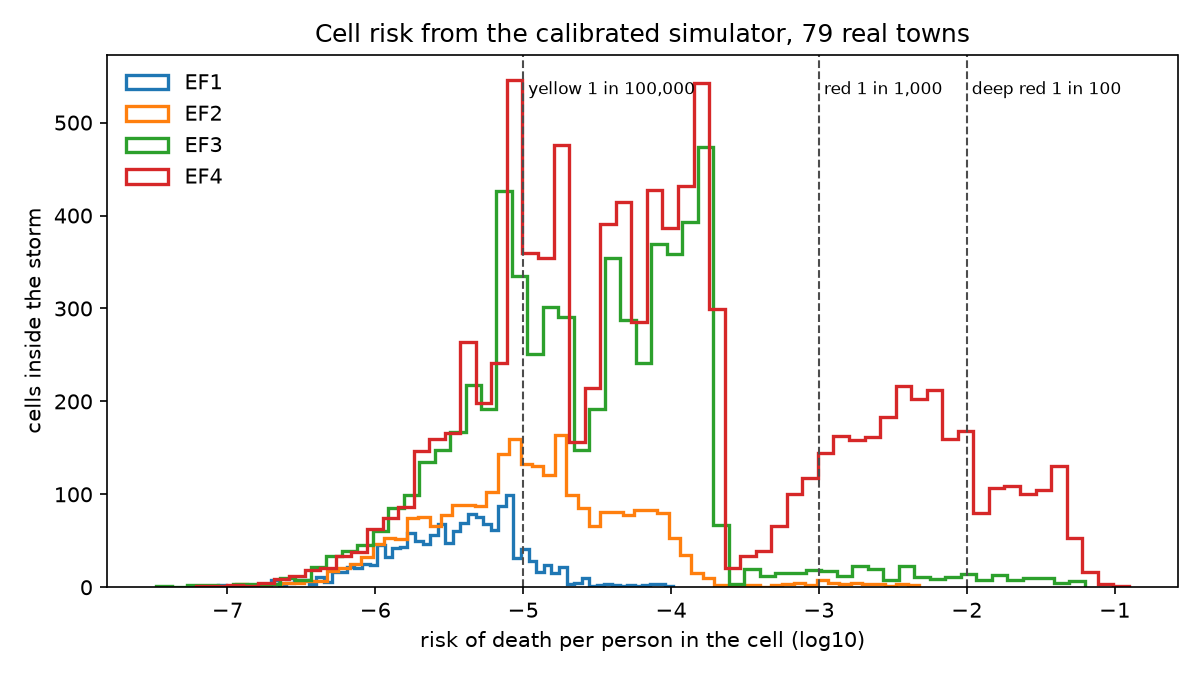
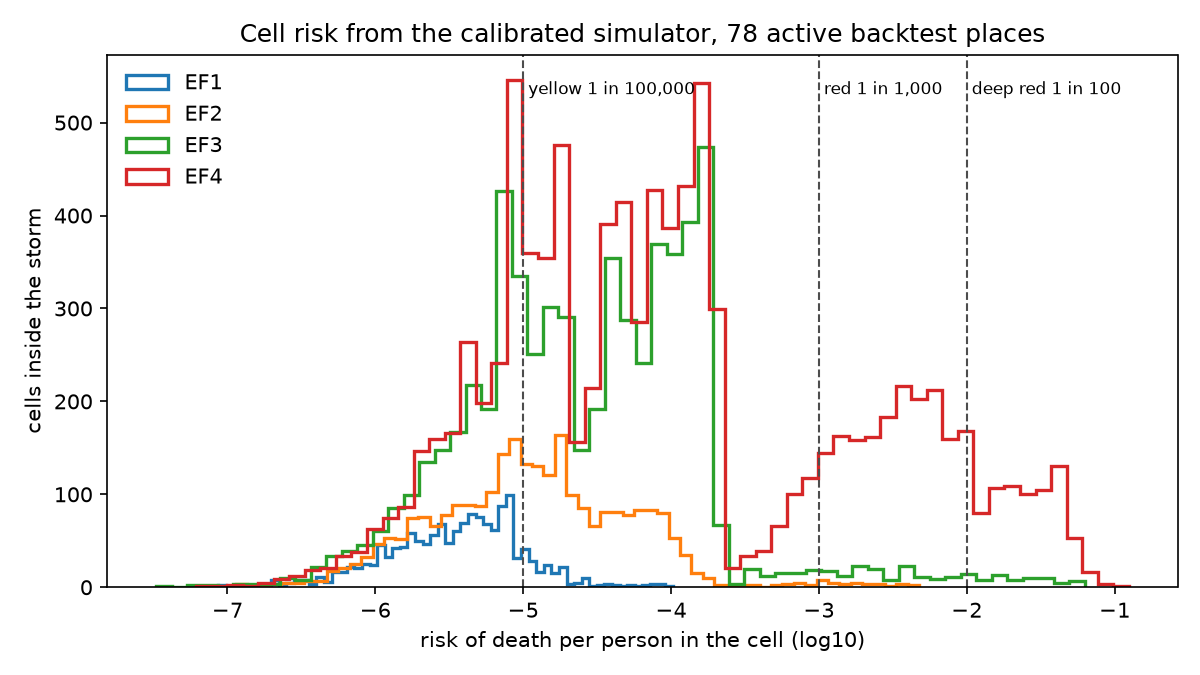
add flood and vehicle params, integration check, tighten methods wording

Changed region(s): [[0.185, 0.0311, 0.8633, 0.0622]]

diff --git a/ml/story_exports.py b/ml/story_exports.py
@@ -145,15 +145,15 @@ Everything regenerates from `ml/story_exports.py`, so if a number changes it cha
 ## Headline numbers (safe to quote)
 
 - Mobile homes: **{t['shares']['MH']:.0%} of tornado deaths** where the location is known, rising to **{t['shares_night']['MH']:.0%} at night**.
-- Vehicles: **{ff['shares']['VEHICLE']:.0%} of flash flood deaths**; another {ff['shares']['WATER']:.0%} were in the water.
+- Vehicles: **{ff['shares']['VEHICLE']:.0%} of flash flood deaths with known locations**; another {ff['shares']['WATER']:.0%} were in the water.
 - Night tornadoes (8 PM to 6 AM) are {tn['share_of_tornadoes']:.0%} of tornadoes but **{tn['share_of_deaths']:.0%} of tornado deaths**
   ({tn['deaths_per_100_tornadoes_night']:.1f} vs {tn['deaths_per_100_tornadoes_day']:.1f} deaths per 100 tornadoes).
 - The national model ranks storms well: on 2020-2025 storms it never saw, AUC **{ts['auc_fatal']:.2f}**
   (tornadoes {ts['by_event_type']['Tornado']['auc_fatal']:.2f}, flash floods {ts['by_event_type']['Flash Flood']['auc_fatal']:.2f}).
-- Backtest on {len(b['storms'])} real tornadoes the simulator was never tuned on: the largest, {big['state'].title()} {big['year']}
+- Backtest on {len(b['storms'])} tornadoes held out from parameter fitting (see the experiment disclosure in METHODS.md): the largest, {big['state'].title()} {big['year']}
   (EF{big['ef']}, {big['recorded']} deaths), simulated at **{big['calibrated']['expected']:.1f} (range {big['calibrated']['p05']:.0f}-{big['calibrated']['p95']:.0f})**.
   Across all {len(b['storms'])}, the simulator predicts {bs['calibrated']['predicted_deaths']:.0f} deaths vs {bs['calibrated']['recorded_deaths']} recorded
-  in buildings, with rank correlation {bs['calibrated']['spearman']:.2f}.
+  in the comparison target, with rank correlation {bs['calibrated']['spearman']:.2f}.
 
 ## Files and suggested charts
 
@@ -164,7 +164,7 @@ Everything regenerates from `ml/story_exports.py`, so if a number changes it cha
 | deaths_by_hour.csv | Radial or column chart by hour; use *_per_100_storms to show night danger |
 | deaths_by_month.csv | Seasonality |
 | deaths_by_location.csv | Stacked bar or waffle: where people die, tornado day vs night vs flash flood |
-| fatalities_dots.csv (in ml/exports/) | One dot per death (23,187 rows): year, type, location class, age band, sex |
+| fatalities_dots.csv (in ml/exports/) | Direct AND indirect deaths (23,187 rows); filter fatality_type to D for comparison with direct-death charts |
 | model_drivers.csv | Bar chart: what the model says drives deaths |
 | model_effect_hour.csv / _ef_rating.csv / _mobile_home_share.csv | Line charts; relative_risk 1.3 = 30% more expected deaths than an average storm |
 | model_validation.csv | Table: how well the model does on states and years it never saw |
@@ -186,11 +186,17 @@ Everything regenerates from `ml/story_exports.py`, so if a number changes it cha
 - Location shares leave out deaths NOAA recorded as "Unknown" (about 16% overall, 6% for tornadoes).
 - Connecticut is blank on the county map (its counties were redrawn in 2022). Territories are not included.
 - County map values come from a model that never saw that county's state, so past disasters are not memorized.
-- The backtest simulator only models people inside buildings. Deaths in cars or outdoors are shown in
-  recorded_deaths but not in recorded_in_buildings. It also draws each storm as straight lines between NOAA's
-  begin/end points, so it misses deaths when the real path curved into a neighborhood; that is why it
-  under-predicts in total. The national model is better at totals; the simulator shows *where* inside a town.
-- Buildings and populations are from a 2025 inventory, so older storms are replayed on today's town.
+- The backtest target (legacy recorded_in_buildings field) excludes known VEHICLE, OUTDOOR, WATER and OTHER
+  locations but retains unknown locations. It is not confirmed building deaths. The national model predicts
+  all direct deaths, so its comparison against this reduced target is not target-matched.
+- NOAA endpoint geometry, inventory gaps and simplified lethality may contribute to underprediction;
+  the backtest does not isolate the cause or establish spatial accuracy. Drawing a path does not validate death estimates.
+- Sampling ranges condition on fixed inputs and omit parameter, exposure and geometry uncertainty.
+- Buildings and modeled populations are contemporary NSI records retrieved in 2026; older storms replay
+  on contemporary exposure, not reconstructed historical towns.
+- The game models buildings and crossing vehicles; its breakdown excludes WATER and OUTDOOR exposures
+  and differs from the national location chart. A town's vehicle share need not equal the national 45%.
+- Flood/vehicle parameters are uncalibrated. Missing HAND or traffic is unavailable data, not verified safety.
 - Night in all charts = 8 PM to 5:59 AM local clock time.
 """
     (OUT / "README.md").write_text(text)

diff --git a/ml/heatmap_bands.py b/ml/heatmap_bands.py
@@ -15,7 +15,8 @@ and red covers under 10% of storm cells, so the red bands lose meaning. Moving e
 decade (still log scale) gives EF1 mostly green, EF2 mostly yellow, EF3 some red, EF4 about a quarter
 red or deep red. See CANDIDATES and heatmap_bands.json.
 
-Writes sim/params/sim_params.json = ml/work/calibrated_params.json + the chosen risk_bands.
+Writes calibrated tornado params + the chosen risk_bands, preserving published flood/vehicle
+blocks when the calibration cache predates flood support.
 Output: ml/exports/heatmap_bands.json, ml/figures/cell_risk_distribution.png
 """
 import json
@@ -124,9 +125,20 @@ def verify_against_cli(storms, P, widths):
     return max(rel)
 
 
-def main():
+def final_params():
+    """Older tornado-only calibration caches must not remove flood support."""
     P = json.loads(CALIBRATED.read_text())
+    if PARAMS.exists():
+        published = json.loads(PARAMS.read_text())
+        for key in ("flood", "vehicle"):
+            if key not in P and key in published:
+                P[key] = published[key]
     P["risk_bands"] = CANDIDATES[CHOSEN]
+    return P
+
+
+def main():
+    P = final_params()
     PARAMS.write_text(json.dumps(P, indent=2) + "\n")  # lethality is unchanged by bands; the CLI check below reads this file
     bands, min_people = P["risk_bands"], P["min_cell_people"]
     widths = {int(k[2:]): v["width_m"]["median"] for k, v in json.loads((EXPORTS / "tornado_width_by_ef.json").read_text())["by_ef"].items()}
@@ -185,7 +197,7 @@ def main():
         ax.text(np.log10(v), ax.get_ylim()[1] * 0.95, f" {k.replace('_', ' ')} 1 in {1 / v:,.0f}", fontsize=8, va="top")
     ax.set_xlabel("risk of death per person in the cell (log10)")
     ax.set_ylabel("cells inside the storm")
-    ax.set_title("Cell risk from the calibrated simulator, 79 real towns")
+    ax.set_title(f"Cell risk from the calibrated simulator, {len(storms)} active backtest places")
     ax.legend(frameon=False)
     fig.tight_layout()
     fig.savefig(FIGURES / "cell_risk_distribution.png", dpi=150)
@@ -201,9 +213,10 @@ def main():
     print(f"  wrote sim/params/sim_params.json with risk_bands = {CHOSEN} {bands}")
 
     write_json(EXPORTS / "heatmap_bands.json", {
-        "note": ("Share of populated H3 cells in each band when the calibrated sim runs EF1-EF4 tornadoes through the 79 "
-                 "backtest towns. share_of_touched_cells counts only cells with nonzero expected deaths. Interim: "
-                 "confirm on the three featured places before freezing."),
+        "note": (f"Share of populated H3 cells in each band when the calibrated sim runs EF1-EF4 tornadoes through {len(storms)} "
+                 "active backtest places. share_of_touched_cells counts only cells with nonzero expected deaths. "
+                 "Presentation cutoffs are fixed across places; they are not validated mortality or damage thresholds."),
+        "active_places": len(storms),
         "chosen": CHOSEN, "bands": bands, "min_cell_people": min_people, "python_vs_cli_max_rel_diff": max_diff,
         "by_storm": table, "candidates": candidates,
     })

diff --git a/ml/calibrate.py b/ml/calibrate.py
@@ -11,8 +11,8 @@ non-fatal storms far faster than it explains fatal ones, so it stayed at 1 and w
 Fixed: VEHICLE (no crossings in tornado places), over65, warning_per_min (every storm uses the
 same placeholder warning time, so it cannot be fit).
 
-Target: deaths_sim_target = recorded deaths minus deaths NOAA places outside buildings (vehicles,
-outdoors), since the tornado sim only models people in buildings.
+Target: deaths_sim_target = recorded direct deaths minus known VEHICLE, OUTDOOR, WATER and OTHER
+locations. Unknown locations remain, so the target is not confirmed building deaths.
 
 Objective on the train storms (each weighted by its sampling weight):
   mean weighted Poisson deviance(target, sim expected deaths + FLOOR)
@@ -37,7 +37,7 @@ from common import EXPORTS, PROCESSED, ROOT, WORK, write_json
 
 TORNADOES = ROOT / "ml" / "backtest" / "tornadoes.json"
 PLACES = ROOT / "data" / "backtest" / "places"
-# env overrides are only for testing the loop against a mock CLI
+# Overrides also support the real engine/defaults in a teammate's checkout.
 SIM_CLI = os.environ.get("REFUGE_SIM_CLI", str(ROOT / "sim" / "dist" / "cli.js"))
 DEFAULT_PARAMS = Path(os.environ.get("REFUGE_DEFAULT_PARAMS", ROOT / "sim" / "params" / "sim_params.default.json"))
 CALIBRATED = WORK / "calibrated_params.json"
@@ -297,9 +297,12 @@ def backtest():
         mu = sum(oof.get(e, 0.0) for e in s["noaa_event_ids"])
         methods["national_model"][s["place_id"]] = (mu, stats.poisson.ppf(0.05, mu), stats.poisson.ppf(0.95, mu))
 
-    out = {"note": ("Held-out historical tornadoes (never used in calibration). building_deaths = NOAA direct deaths "
-                    "minus those recorded in vehicles or outdoors (what the tornado sim models); all_recorded_deaths = "
-                    "every NOAA direct death. p05-p95 from 500 sim runs; for the national model, a Poisson range."),
+    out = {"note": ("Tornadoes held out from parameter fitting; see METHODS.md for the post-test experiment disclosure. "
+                    "Legacy building_deaths/recorded_in_buildings keys mean NOAA direct deaths minus known VEHICLE, "
+                    "OUTDOOR, WATER and OTHER locations; unknown locations remain. all_recorded_deaths includes every "
+                    "direct death. National-model predictions target all direct deaths, so its comparison with the reduced "
+                    "target is not target-matched. Simulator p05-p95 comes from 500 conditional sampling runs and excludes "
+                    "parameter/exposure/geometry uncertainty; the national model uses a Poisson range."),
            "storms": [], "summary": {}}
     for tname, y in targets.items():
         out["summary"][tname] = {}

diff --git a/ml/backtest_select.py b/ml/backtest_select.py
@@ -127,7 +127,7 @@ def sample(eligible, rng):
                 break
         s = pool[chosen].with_columns(
             stratum=pl.lit("fatal" if fatal else "nonfatal"),
-            # inverse selection probability, so weighted sums estimate the eligible population
+            # Stratum prevalence weight; approximate because selection also caps storms per state.
             weight=pl.lit(pool.height / len(chosen)),
             eligible_in_stratum=pl.lit(pool.height),
         )

diff --git a/ml/METHODS.md b/ml/METHODS.md
@@ -1,11 +1,11 @@
 # Methods (ML)
 
-All numbers below are produced by the scripts in `ml/` and stored in `ml/exports/`. Rerun the pipeline and they regenerate.
+ML metrics below are produced by the scripts in `ml/` and stored in `ml/exports/`. Simulation assumptions and teammate checks are identified separately.
 
 ## Data
-- **NOAA Storm Events, 1996–2025.** 1.78M event reports and 23,852 deaths with where each person was. Hours were converted from NOAA's local standard time to local clock time. Territories are left out.
+- **NOAA Storm Events, 1996–2025.** The raw download has 1.78M event reports and 23,852 fatality records, including direct and indirect deaths and unknown locations. Models and national mortality summaries use direct deaths in the 50 states and DC. The dot export retains direct and indirect deaths, labeled D/I. Hours were converted from NOAA's local standard time to local clock time.
 - **CDC/ATSDR Social Vulnerability Index 2022** (county level, built on ACS 2018–2022): mobile home share, share over 65, households without a vehicle, population density, SVI score. Connecticut's 2022 county redraw means its NOAA counties do not join.
-- **USACE National Structure Inventory** (via `places/fetch_nsi.py`): every building, its type, basement, and modeled 2 AM / 2 PM population. These are **modeled estimates** from a 2025 inventory.
+- **USACE National Structure Inventory** (via `places/fetch_nsi.py`): available building records, type, basement, and modeled 2 AM / 2 PM population. These are **modeled estimates** retrieved in September 2026, not verified historical exposure. Population estimates have their own source vintage; retrieval date does not establish the vintage of every inventory attribute. Missing structures can materially change results.
 - **FHWA National Household Travel Survey 2017** and **Highway Statistics 2023**: hourly traffic shape and daily vehicles per road class, for cars at flooded crossings.
 
 ## National risk model
@@ -27,26 +27,38 @@ On 2020–2025 the model predicts 799 deaths against 994 recorded. Most of the g
 **Leakage checks.** EF rating is assigned after the storm from damage surveys, so part of its effect is "the storm hit buildings". That is acceptable here because the simulator takes EF as an input. County features act like a fingerprint, so a model trained on all data partly memorizes past disasters. The county map (`county_risk.json`) therefore uses **out-of-fold** predictions from models that never saw that county's state.
 
 ## Location model
-Multinomial logistic regression predicts where deaths happen (mobile home, house, public building, vehicle, water, outdoors, other) for a fatal event. It uses 4,047 deaths with a known location, and each event gets equal total weight. It beats the baseline of national shares per event type in every state fold (0.3% to 6.0% lower log loss) and on 2020–2025 (1.369 vs 1.448, 5.5% lower). In the data, mobile homes are 42% of tornado deaths (54% at night) and vehicles are 45% of flash flood deaths.
+Multinomial logistic regression predicts where deaths happen (mobile home, house, public building, vehicle, water, outdoors, other) for a fatal event. It uses 4,047 direct deaths with a known location, and each event gets equal total weight. It beats the baseline of national shares per event type in every state fold (0.3% to 6.0% lower log loss) and on 2020–2025 (1.369 vs 1.448, 5.5% lower). Among direct deaths with known locations, mobile homes are 42% of tornado deaths (54% at night) and vehicles are 45% of flash flood deaths.
+
+The game models building occupants and crossing vehicles. It has no WATER or OUTDOOR exposure model, and its OTHER building class does not map to NOAA's OTHER location class. Its breakdown therefore has a different denominator from the national chart. The 45% vehicle share is a national descriptive comparison, not a target for each town or flood scenario.
 
 ## Simulator calibration
 - **Storms.** 80 historical tornadoes, 2015–2025, EF1+, 26 states. NOAA county segments were stitched back into whole paths (82% of NOAA-marked continuations linked). Each storm had to hit something: a death, an injury, or at least $250k damage.
-- **Sampling.** 40 fatal and 40 non-fatal storms, with sampling weights so the fit still represents all 1,663 eligible tornadoes. 30 were held out at random and **never used for tuning**.
+- **Sampling.** 40 fatal and 40 non-fatal storms from 1,663 eligible tornadoes. Stratum-size weights approximate their prevalence; the per-state selection cap means these are not exact inverse inclusion probabilities. Thirty storms were held out from parameter fitting. A post-test experiment is disclosed below.
 - **Exclusions.** Two training storms are excluded by stated rules: Edwardsville 2021 (all deaths in a warehouse missing from NSI) and one storm whose NOAA begin and end points coincide.
 - **Free knobs.** Five knobs, all inside bounds agreed with Simulation: death rate multipliers for mobile homes, houses and apartments, and public buildings, plus the night and basement modifiers. Vehicle, over-65 and warning-time effects stay at Simulation's values. Every storm uses a fixed 10-minute warning, so the warning effect cannot be fit.
-- **Loss.** Weighted Poisson deviance between simulated and recorded **building** deaths. Deaths NOAA records in vehicles or outdoors are removed, because the tornado simulator only models people in buildings. The loss adds a 0.1-death floor per storm for deaths the simulator cannot see, a penalty for mismatch with the location model's mix, and a mild pull toward Simulation's engineering defaults.
+- **Loss.** Weighted Poisson deviance against direct deaths after subtracting known VEHICLE, OUTDOOR, WATER and OTHER locations. Unknown locations remain; this is a comparison target, not confirmed building deaths. Legacy export keys `building_deaths` and `recorded_in_buildings` retain their names for compatibility. The loss adds 0.1 to expected deaths inside the objective only, a penalty for mismatch with the location model's mix, and a mild pull toward Simulation's engineering defaults. Published expected deaths do not include that floor.
 - **Result.** Mobile home 1.02, house and apartment 1.66, public 0.98, night 1.26, basement 0.24. The simulated mix of building deaths moved from 74/21/5% to 66/29/5% (mobile home / house / public) against the location model's 62/33/5%.
 - **Disclosure.** After seeing the held-out results, we tried one more knob, a scale on the death rate for minor and major damage. The training storms rejected it: it added deaths to storms that killed nobody faster than it explained fatal ones. We removed it. The held-out results below are unchanged by that test.
 
 ## Backtest (30 held-out tornadoes)
 
-| Method | Predicted vs recorded building deaths | Rank correlation | Recorded inside p05–p95 |
+| Method | Predicted vs comparison target | Rank correlation | Target inside p05–p95 |
 |---|---|---|---|
 | Simulator, calibrated | 10.0 vs 28 | 0.49 | 67% |
 | Simulator, uncalibrated | 10.7 vs 28 | 0.50 | 67% |
 | National model alone | 20.6 vs 28 | 0.51 | 80% |
 
-The largest held-out storm (Texas 2024, EF3, 7 deaths) simulates at 6.2 (range 3–10). **What the backtest misses, and why:** NOAA gives each county segment only a begin and end point, so the simulated path is a straight line and often misses the neighborhood the real storm curved through. NSI has 2025 buildings and populations, so older storms replay on today's town. Deaths in cars and outdoors are outside the tornado simulator. The national model is better at totals. The simulator's job is showing *where* inside a town the risk sits. The next step for the backtest is the NWS Damage Assessment Toolkit's surveyed tracks, which are public: a test found them for 22 of 25 backtest storms, with 5 to 115 points along the real curved path instead of NOAA's 2 to 4. In the game this issue does not arise, because the user draws the path.
+The largest held-out storm (Texas 2024, EF3, 7 deaths) simulates at 6.2 (range 3–10). The simulator underpredicts the full test target. NOAA endpoint geometry, missing or contemporary NSI exposure, and simplified hazard/lethality assumptions may contribute; this experiment does not identify their separate effects or establish spatial accuracy. Drawing a path in the game does not remove uncertainty in exposure or lethality. Surveyed tracks remain future work, not an agreed rebuild.
+
+The national model predicts all direct deaths, whereas the simulator comparison target excludes known nonbuilding locations. Its row is not a target-matched validation benchmark. Simulator p05–p95 covers independent occupant sampling conditional on fixed inputs, not uncertainty in paths, parameters or population. The nominal 90% range covers only 67% of these test targets.
+
+## Flood integration and class ranking
+
+The `flood` and `vehicle` blocks in `sim/params/sim_params.json` are copied unchanged from Mahil's defaults at `ce766f5`. They are **uncalibrated**, with assumption sources in `sim/params/sim_params.sources.md` on that branch. Building depth is `flood_height_m - hand_m - first_floor_ht_m`; a null first-floor height currently defaults to zero. Crossing depth is `flood_height_m - hand_m`. One stream-relative height is applied across the place; this is not a hydraulic flow simulation.
+
+Flood ignores the tornado MH/RES/PUBLIC multipliers and basement modifier. It retains night, warning and building age effects, plus VEHICLE for crossings. Sharing the tornado-fitted night modifier does not establish flood calibration. Null HAND or crossing traffic is reported in `no_flood_data`; omitted exposure must not be displayed as verified zero risk. Real flood checks await Structures' HAND and crossing data.
+
+Keep the existing shared tornado lethality table. Mahil's uniform-position, full-swath checks report MH/wood-house risk ratios of about 19, 138 and 25 at EF2, EF3 and EF4. These are model diagnostics, not independent validation against population studies. MULTI can outrank MH at an EF4 centerline because both reach their highest modeled damage level and RES has the larger fitted multiplier. This is not true for every building class: wood houses need 200 mph for level 4, above the model's 183 mph EF4 peak. Do not alter lethality simply to force a preferred color ranking.
 
 ## Heatmap bands
-Risk per cell = expected deaths in the H3 cell / people there at the storm's hour. We ran EF1–EF4 through all 79 backtest towns at 2 AM and 3 PM (a Python replica of the simulator's expected mode, matching the CLI exactly). With the starting cutoffs, deep red never appeared, even for an EF4 at night. **Final cutoffs, one decade lower, log scale:** yellow from 1 in 100,000, red from 1 in 1,000, deep red from 1 in 100. Minimum 5 people per cell. EF4 cells at night are then 18% green, 56% yellow, 18% red and 7% deep red; EF1 cells are 85% green. The red cutoff falls in the natural gap between damaged and destroyed buildings (`ml/figures/cell_risk_distribution.png`). These bands are frozen in `sim/params/sim_params.json`.
+Risk per cell = expected deaths in the H3 cell / people there at the storm's hour, including modeled crossing occupants for flood. We ran EF1–EF4 through 78 active backtest places at 2 AM and 3 PM using a Python replica checked against CLI totals on 12 scenarios. With the starting cutoffs, deep red never appeared, even for an EF4 at night. **Final cutoffs, one decade lower, log scale:** yellow from 1 in 100,000, red from 1 in 1,000, deep red from 1 in 100. Minimum 5 people per cell; empty cells stay uncolored. Among touched cells with at least five people, EF4 at night is 18% green, 56% yellow, 18% red and 7% deep red; EF1 is 85% green. These fixed presentation thresholds in `sim/params/sim_params.json` are not validated mortality categories or universal damage boundaries. See `ml/figures/cell_risk_distribution.png` and `ml/INTEGRATION.md`.

diff --git a/ml/INTEGRATION.md b/ml/INTEGRATION.md
@@ -1,0 +1,67 @@
+# ML integration handoff — September 26, 2026
+
+The next product milestone is one complete **Lumberton tornado** flow:
+town → animated storm → risk map → place a safe room → replay → compare with a budget-constrained shelter search.
+Extend the working flow to flood and the other towns afterward. This does not add a new historical backtest or change the mortality model.
+
+## Ready to consume
+
+- `sim/params/sim_params.json`: fitted tornado knobs, accepted risk bands, and unchanged uncalibrated flood/vehicle blocks from Simulation `ce766f5`.
+- `ml/exports/`: national evidence, traffic profiles, widths, model metrics and backtest. Its README defines scope and denominators.
+- Simulation's `sim/scenarios/lumberton_tornado.json`: hypothetical demo path, not a replay of a historical Lumberton event.
+- Structures `places/phase-1` at `2ee3e93`: real building records, footprints, populations and H3 cells for the three featured places.
+
+With these exact inputs, the Lumberton scenario at EF3, 2 AM, width 640.1 m, warning 10 minutes, seed 42 and 500 runs gives **18.8568734272 expected deaths, p05 12, p95 27**. Use this as an integration reference, not a claim of real-world accuracy. Preserve building order for identical seeded intervals.
+
+Colors use cell expected deaths divided by cell occupants: yellow ≥ 0.00001, red ≥ 0.001, deep red ≥ 0.01. Height represents expected deaths. Zero-occupant cells are empty; fewer than five occupants are sparse. Do not recolor independently using relative rankings or a different threshold set.
+
+## Checks completed
+
+`ml/check_sim_integration.mjs` validates the final ML parameter file with the actual built engine, evaluates 48 training and 30 test places, compares the test results with saved exports, checks cell sums on all three featured towns, and exercises flood building/vehicle exposure through the public CLI using synthetic inputs.
+
+```sh
+npm run build --prefix sim
+node ml/check_sim_integration.mjs
+```
+
+Before branches are integrated, point it at built teammate checkouts:
+
+```sh
+node ml/check_sim_integration.mjs --sim-root /path/to/simulation-checkout/sim --places /path/to/structures-checkout/places
+```
+
+It requires the cached historical places/scenarios in `data/backtest/` and writes `ml/work/sim_integration_check.json`. A successful exit confirms the integration assertions; inspect each town's flood status separately. Geographic validation is not implied by executable code or passing synthetic checks.
+
+The current check passes with Simulation `ce766f5` and Structures `2ee3e93`. No saved tornado test values changed. Heatmap regeneration preserves flood/vehicle blocks when the saved tornado calibration predates them.
+
+## Flood is waiting for exposure data
+
+Morganton has 13,595 buildings, Lumberton 14,551 and Chapel Hill 21,065. Every building currently has null HAND; all three crossing and stream arrays are empty. A 4.5 m flood at 2 AM with 30 minutes warning therefore returns zero expected deaths **because exposure is skipped**, with all buildings counted in `no_flood_data`.
+
+The UI must suppress the safety interpretation of those totals and colors and show unavailable/incomplete flood exposure. A zero missing-crossing count does not prove crossing coverage when no crossings were supplied. After Phase 2 lands, review whether flood exposure follows stream valleys, high ground stays dry, traffic is plausible, and skipped exposure is understood. Do not force a low death total as an acceptance criterion.
+
+Compare modeled VEHICLE share only when the total is positive and data coverage is usable. The national 45% statistic covers known-location direct flash-flood deaths and includes exposure categories absent from the game. A single town's modeled buildings-plus-vehicles share need not match it.
+
+## Acceptance checks for the first playable flow
+
+Simulation owns the protection schema, effects and game controls; Structures owns the scene and placement geometry. Agree those interfaces together. ML supplies the current parameters and reference calculations.
+
+1. Load Lumberton and run the exact baseline above. The displayed total and cell sum agree with the engine. Weather animation, the drawn path and the calculated scenario use the same inputs.
+2. Place one safe room at an eligible site. State capacity, cost, residual risk, warning-time/reachability assumptions and hazard suitability. A tornado safe room is not automatically a flood evacuation destination.
+3. Transfer reachable occupants from their origin buildings into shelter exposure without duplicating people. Overlapping shelter catchments cannot protect anyone twice. Capacity and budget limits apply, and removing a shelter restores the baseline. Record origin/destination assignments so scene animation and before/after counts agree.
+4. Replay the same hazard, hour, warning and seed. Show baseline, protected expected deaths, and modeled lives saved. Expected values must not depend on random seed. Explain whether a map represents occupants' current locations or benefit attributed to their original locations; relocation alone must not be mistaken for protection.
+5. Search all affordable combinations of a small agreed candidate-site set using deterministic `expected()`. Apply the same placement, cost, capacity and assignment rules as the user plan. For a comparable score, the user's eligible sites must be in the search set. Label the result best for those candidates and that model; a heuristic gets “best found,” not a guaranteed optimum.
+6. Run the expensive sampling only for the displayed baseline and selected plans, in a worker. Show before/after and user/search comparisons; handle a zero available benefit without division by zero. Verify responsiveness on the presentation laptop before expanding scope.
+
+No shelter or optimizer implementation is claimed by this document. Their benefit assumptions must be described as model assumptions, not proven causal estimates.
+
+## Reporting corrections to carry into the UI
+
+- The backtest target retains unknown-location deaths; use “comparison target,” not “confirmed building deaths.”
+- The simulator underpredicts that target. Geometry is a possible contributor, not an established complete explanation. A drawn path does not validate mortality estimates.
+- Sampling ranges omit parameter, exposure and geometry uncertainty.
+- The national location chart includes WATER/OUTDOOR; the game does not. Simulator OTHER buildings differ from NOAA OTHER locations.
+- Keep the shared tornado lethality table. Whole-swath MH/wood ratios are diagnostics, not validation. One source-note sentence needs correction: not every class reaches level 4 at EF4 centerline; wood houses require 200 mph while the model's EF4 peak is 183 mph.
+- Flood/vehicle parameters are uncalibrated; the retained tornado-fitted night effect is also unvalidated for flood.
+
+PRs remain stacked #1 → #2 → #3. Updating #3 does not merge them. The game can load the calibrated file after the team integrates the branches.

diff --git a/ml/exports/README.md b/ml/exports/README.md
@@ -13,7 +13,11 @@ ml/.venv/bin/python ml/calibrate.py backtest   # backtest.json
 ml/.venv/bin/python ml/story_exports.py        # story/ (Flourish CSVs)
 ```
 
-All deaths are NOAA Storm Events direct deaths, 50 states + DC, 1996-2025. Hours are local clock time.
+Unless stated otherwise, mortality summaries use NOAA Storm Events direct deaths, 50 states + DC, 1996-2025. Hours are local clock time. `fatalities_dots.csv` includes both direct (`D`) and indirect (`I`) deaths; filter `fatality_type == D` when comparing it with the direct-death charts.
+
+Location shares exclude unknown locations. The simulator models buildings and crossing vehicles, not WATER or OUTDOOR exposures, so its breakdown does not have the same denominator as the national location chart. Simulator `OTHER` buildings are also not the NOAA `OTHER` location category.
+
+The legacy backtest keys `recorded_in_buildings` and `summary.building_deaths` exclude known VEHICLE, OUTDOOR, WATER and OTHER locations but retain unknown locations. Label this **comparison target**, not confirmed building deaths. National-model predictions target all direct deaths. See `ml/METHODS.md` for validation limits.
 
 | File | For | Shape |
 |---|---|---|

diff --git a/ml/README.md b/ml/README.md
@@ -25,6 +25,12 @@ ml/.venv/bin/python ml/traffic_curve.py  # hourly traffic curve for crossings
 
 Outputs land in `ml/exports/` (see its README for formats), `ml/figures/`, and `ml/work/` (models, gitignored).
 
+## Simulation integration
+
+See [INTEGRATION.md](INTEGRATION.md) for the Lumberton demo baseline, flood data blockers, and shelter/replay acceptance checks. After building Simulation, run `node ml/check_sim_integration.mjs`; use `--sim-root` and `--places` to check teammate checkouts before merging. This uses cached backtest data and does not retrain models.
+
+The final parameter file includes calibrated tornado knobs and **uncalibrated** flood/vehicle blocks. `heatmap_bands.py` preserves those blocks if an older calibration cache lacks them. The script's fixed risk bands are presentation choices, not independently validated mortality categories.
+
 ## Tables (data/processed/, not in git)
 
 | File | Rows | Notes |
